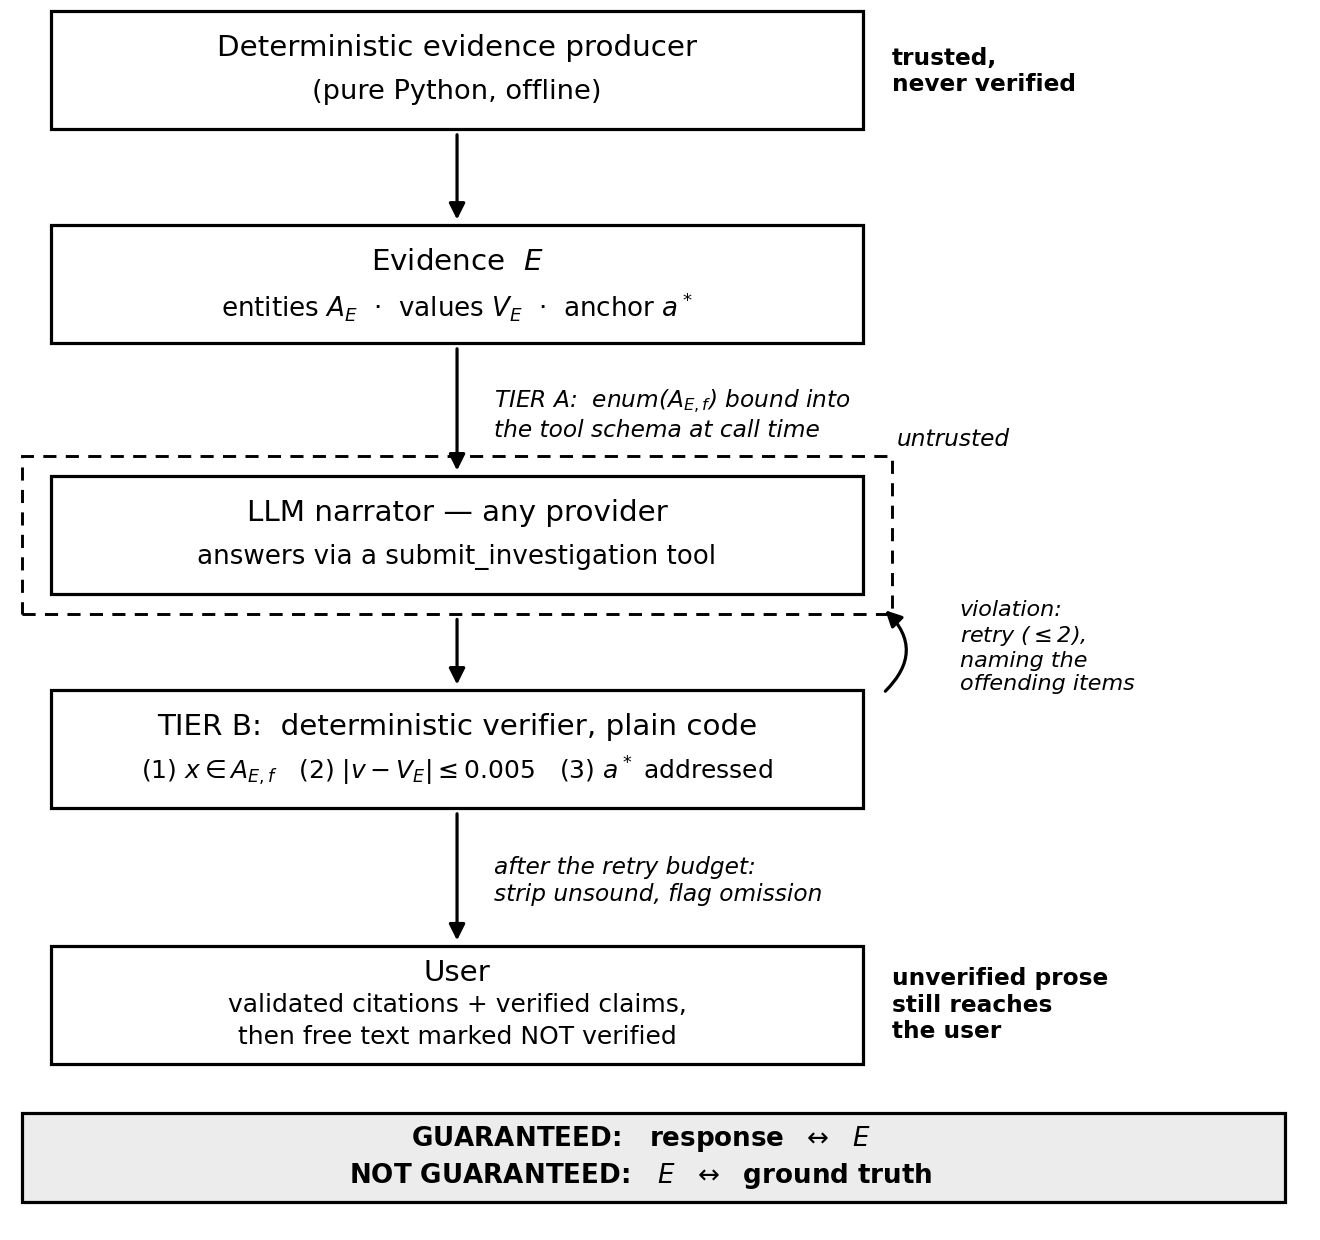
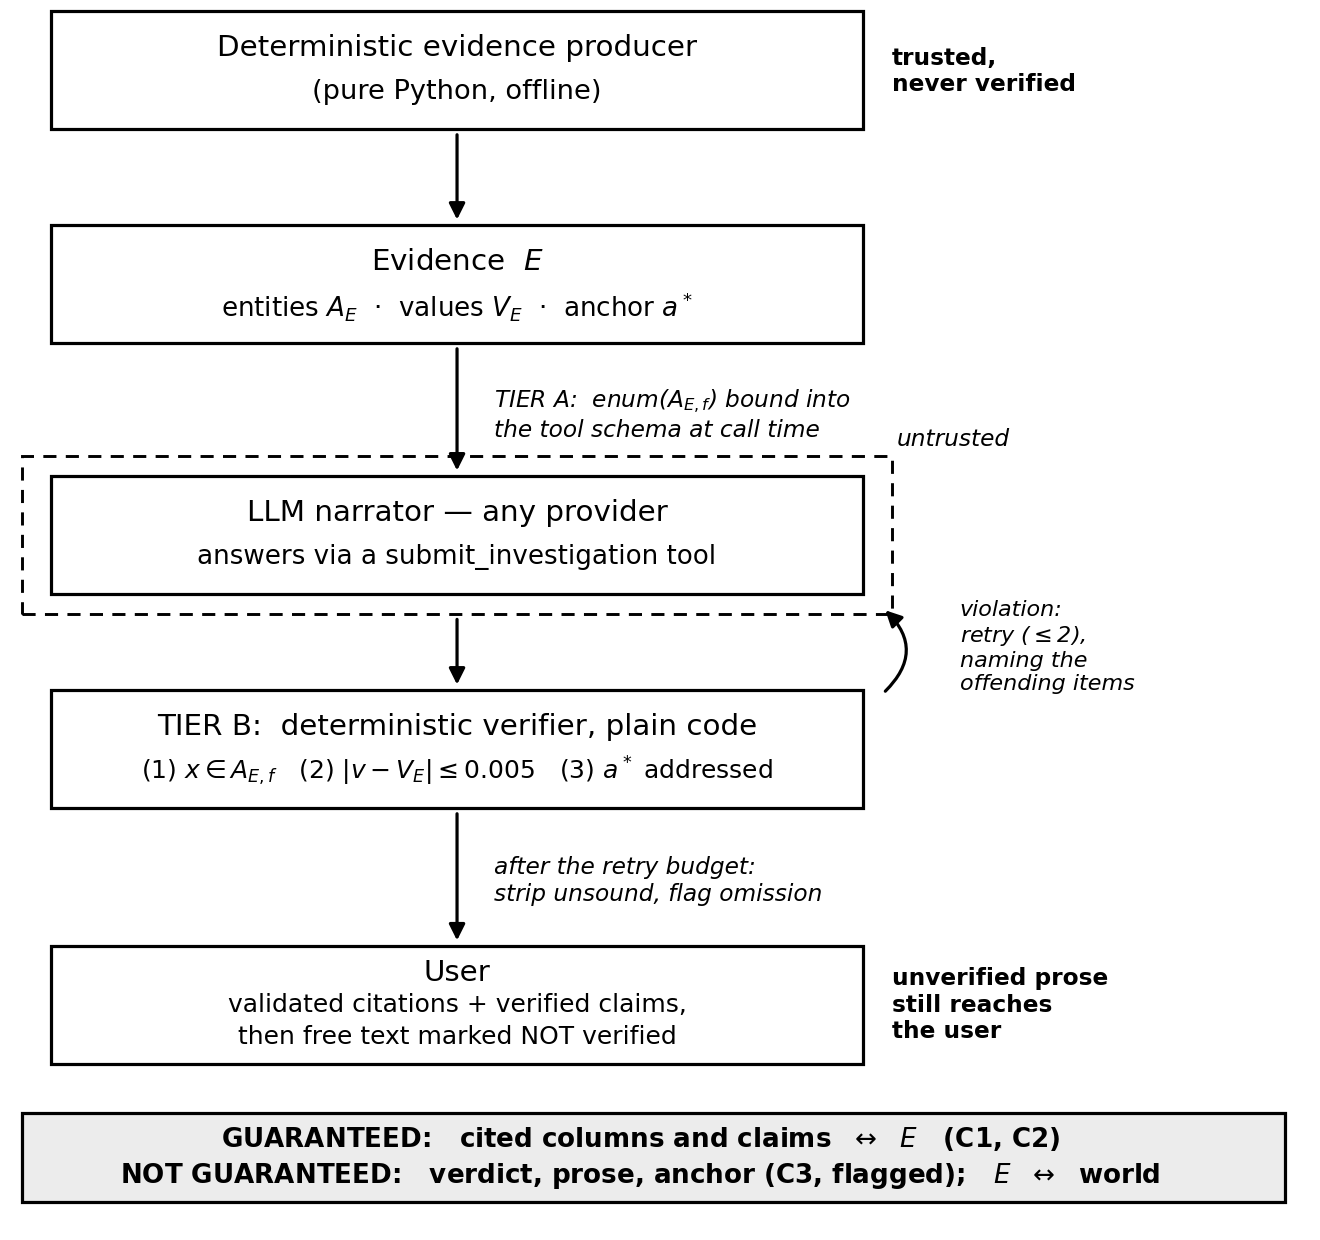
Manuscript: fixes from the V1.6 panel
Independent arms described as independent (the verified arm's four retries
were its own responses); Fig. 1 guarantees only the cited columns and claims
(C1, C2); C3 reported as a diagnostic; check time separated from retry time;
the only pooled figure is the one A3 registered, with a reconciliation of
the 1,829 flagged responses; H8's decision rule explained; enum and wording
claims scoped; arms ran in blocks, not interleaved; stale-enum control called
extreme. Still 15 pages, abstract 247 words.

Changed region(s): [[0.0932, 0.8887, 0.8697, 0.9806]]

diff --git a/paper/tse_latex/main.tex b/paper/tse_latex/main.tex
@@ -73,13 +73,13 @@ responses \emph{misfile} a real evidence name into a field that excludes it;
 description takes the rate from 49\,\% to 0.5\,\%, and temperature 0 to
 2\,\%. The shipped prompt gives 0\,\% with or without its claim that
 violations are rejected; its first three rules alone leave 7\,\%. An enum
-fixed at authoring time turns misfiling into invention (72.5\,\%) on data it
-predates; one built at call time reads zero. Added to a well-specified
+written for other data turns misfiling into invention; one built at call time
+does not. Added to a well-specified
 configuration, the verifier changed no rate on leakage and caught 4 of 200
 responses on a profiling task, an exploratory difference whose registered
 confirmatory test the budget cut short. It repaired every violation with one
-retry, in microseconds. Verdict and prose are outside it; a scan of
-the prose found no increase.
+retry; the check itself takes microseconds. Verdict and prose are outside it;
+a prose scan found no clear increase.
 \end{abstract}
 
 \begin{IEEEkeywords}
@@ -403,7 +403,9 @@ before the study, support it without proving it, and the search found two
 defects in an earlier version (Section~\ref{sec:instruments}). Because the
 guarantee does not come from sampling, we report an enforced arm's clean result
 as what the verifier did and attach no interval to it. (C3) cannot be enforced
-in the same way; when $E$ has no candidate there is no anchor, and (C3) holds
+in the same way, so it is reported and not guaranteed: a committed response
+that still omits the anchor after the retries reaches the user with the
+omission flagged. When $E$ has no candidate there is no anchor, and (C3) holds
 vacuously.
 
 \begin{observation}[Repair asymmetry]\label{prop:asym}
@@ -426,11 +428,9 @@ Tier~B therefore strips unsound content and only \emph{flags} a persistent
 omission, which in edit-automaton terms is suppression without
 insertion~\cite{ligatti2005edit}. In the security setting insertion is simply
 a stronger primitive; over a narrator, an inserted reference would fabricate
-attribution. The check runs in linear time. Hashing each $A_{E,f}$ and $V_E$
-once turns every entity, claim and anchor test into one lookup, so a response
-costs $O(|r|)$ after $O(\sum_f|A_{E,f}|+|V_E|)$ preprocessing. This matters for
-feasibility only. The step that needed care was keying $V_E$ on the pair,
-which our own scorer once failed to do (Section~\ref{sec:instruments}).
+attribution. With each $A_{E,f}$ and $V_E$ hashed once, a response costs
+$O(|r|)$. The step that needed care was keying $V_E$ on the pair, which our
+own scorer once failed to do (Section~\ref{sec:instruments}).
 
 %%%%%%%%%%%%%%%%%%%%%%%%%%%%%%%%%%%%%%%%%%%%%%%%%%%%%%%%%%%%%%%%%%%%%%%
 \section{The Artifact}\label{sec:contract}
@@ -544,9 +544,8 @@ and marked unverified; Section~\ref{sec:threats} measures what they carry.
 The second is the correctness of $E$. If the leakage detector mis-ranks a
 candidate, the contract faithfully narrates a wrong finding. The producer is
 trusted and not verified, and (C3) names one anchor rather than every finding.
-Where two candidates are nearly tied, a response that addresses the second
-would be flagged; a variant of (C3) that accepts any of several candidates is
-untested, since no instance we ran has a tie at the top.
+A response that addresses the second of two nearly tied candidates would be
+flagged; no instance we ran has such a tie.
 
 The third is the other narration surfaces. The product prints two other
 narrations of the same evidence that no contract governs: an optional LLM
@@ -722,9 +721,8 @@ fixed in the analysis plan; the local \texttt{qwen2.5:7b} arms have $N=20$ and
 the RQ4 variants $N=100$. One arm's responses on one task instance and date
 form a \emph{cell}, and the arms run together on one date a \emph{battery}.
 A count of 0 in 200 bounds
-the rate below 1.9\,\% (Wilson, 95\,\%). Against an arm at zero, a true rate of
-4\,\% is detected with power 0.8; near the 42\,\% floor only differences of
-about 13 points are (Section~\ref{sec:threats}). The
+the rate below 1.9\,\% (Wilson, 95\,\%); power is in
+Section~\ref{sec:threats}. The
 provider serves a rolling model name, so the same arm can read differently on
 different days. Every rate therefore carries its run date, and arms are
 compared within a date.
@@ -765,7 +763,7 @@ $0.05$ (\texttt{scripts/tau\_sensitivity.py}). The narrators copy numbers,
 so the choice matters little here. An absolute $\tau$ suits bounded quantities
 such as correlations; unbounded ones call for a relative tolerance and counts
 for an exact match, and each specification can set its own. Both of ours use
-0.005, which on an integer count already demands an exact match.
+0.005, which on an integer count rejects every other integer.
 
 \texttt{deepseek-chat} is the model on which the failure occurs;
 \texttt{gpt-5.4-mini} and a local \texttt{qwen2.5:7b} are the null providers
@@ -799,7 +797,7 @@ X3b & Contract against the author-time list (exploratory) & Equal on the referen
 X4 & Our checks inside the Guardrails loop tie the contract & 0.0\,pp [$-1.9$, 1.9], $p=1$ \\
 X5 & Contract against NeMo Guardrails & Not run: the adapter was not built \\
 H7 & Stock Guardrails loop within 2\,pp of the floor & Not met: 35.0 against 42.0\,\%, but not the 10\,pp drop that rejects it \\
-H8 & Typed schema without column list within 2\,pp of the floor & Neither held nor rejected: 4.0\,\% is far below 42.0\,\%, rejection needs 0/200 \\
+H8 & Typed schema without column list within 2\,pp of the floor & Neither held nor rejected: the registered rule rejects only at 0/200, so it cannot register the large drop observed (4.0 against 42.0\,\%) \\
 H9 & Strict call-time enum ties the contract on entity & Held (2026-09-24); the run without the flag is \texttt{A-TIER-A-ONLY} \\
 H10 & Strict enum fails on an activated non-entity channel & Void with X2 \\
 H11 & Our checks inside Guardrails match the contract on every channel & Held \\
@@ -812,7 +810,7 @@ H16 & The post-strip anchor-coverage re-check fires on live data & Not exercised
 Falsifier & Property-based falsifier with automated mutants & Built after the runs ($10^6$ cases); 36 hand-written mutation tests instead of generated mutants \\
 Strict prompt & Replicate of the arms under the shipped prompt & Run for \texttt{A-L2} and \texttt{A-L3-SHIPPED} only, plus the unregistered \texttt{A-L2-RULES} and \texttt{A-L2-NOCLAIMS} \\
 Panel & \texttt{deepseek-v4-flash}, \texttt{gpt-5.4-mini}, \texttt{Qwen2.5-3B} (vLLM) & \texttt{deepseek-chat}, \texttt{gpt-5.4-mini}, \texttt{qwen2.5:7b} (Ollama), without an amendment \\
-Pooling & No pooled rates for floor, baseline or sweep arms & None reported \\
+Pooling & No pooled rates for floor, baseline or sweep arms & None, except the share of invented names over the twelve A3 instances, which A3 registered pooled \\
 Pilot & Report the June floor rates & 15.0 and 11.5\,\% (rolling alias, records not kept; fault 5) \\
 \midrule
 A3 R2a & On 12 instances frozen in July, misfiling dominates and invented names stay under 5\,\% of flagged responses & Held: 12 of 817 (1.5\,\%), on 1{,}888 valid floor responses \\
@@ -853,16 +851,19 @@ responses, every one \texttt{r2}, and the shipped prompt and the contract read
 
 \paragraph{Twelve further instances}
 On the twelve instances frozen in July the floor arm misfiles in 26.5 to
-55.5\,\% of responses per instance, 817 of 1{,}888 pooled (43.3\,\% [41.1,
-45.5]); 512 calls lost when the provider balance ran out are excluded
-(amendment A4). Of the 817, 795 misfile \texttt{r2} or
+55.5\,\% of responses per instance, 817 of 1{,}888 responses in all; 512
+calls lost when the provider balance ran out (23 to 64 per instance, all
+errors 402 or 429) are excluded (amendment A4). Of the 817, 795 misfile \texttt{r2} or
 \texttt{perfect\_match\_rate}. Forty-five cite the frame's own target column,
 which $E$ does not list, 18 of them with no other violation. Twelve cite a
 name in neither $E$ nor the frame: ten write \texttt{target} for the target
 column, and two respell a real one (\texttt{charged\_est},
 \texttt{total\_charges}). The registered prediction that such names stay
-under 5\,\% of flagged responses holds (1.5\,\%). The composition found on
-four instances thus holds on twelve that played no part in the design.
+under 5\,\% of flagged responses holds (1.5\,\%). The 817 are thus 795 that
+misfile, 18 that cite only the target column and 4 that cite only an invented
+name; with the 1{,}012 of the first four instances, all of which misfile,
+1{,}807 of 1{,}829 flagged responses misfile. The composition found on four
+instances holds on twelve that played no part in the design.
 
 \paragraph{Cause: an undescribed field}
 The bare instruction says ``list every column from the evidence you cite'',
@@ -1023,8 +1024,10 @@ of RQ5 gave the one difference we observed. Under natural column names the
 unverified strong arm delivered a violation in 4 of 200 responses
 (2.0\,\% [0.8, 5.0]): one cites \texttt{reference\_count} beside the real
 \texttt{referral\_count}, two attach real numbers to invented
-\texttt{*\_placeholder} columns, and one to a statistic $E$ lacks. The verified arm delivered
-none and sent those four back. Against 0/200 this is not significant (Fisher
+\texttt{*\_placeholder} columns, and one to a statistic $E$ lacks. The verified arm, an independent
+sample, delivered none; it sent back four of its own responses, three citing
+columns the frame lacks and one without an admissible verdict, and one retry
+repaired each. Against 0/200 this is not significant (Fisher
 $p=0.12$) and was found in an exploratory run. The confirmatory test we then
 registered, 600 responses per arm (amendment A3), stopped when the provider
 balance ran out after 93 and 91, none with a violation, and we run no test on
@@ -1200,7 +1203,7 @@ enum alone, with no verification, left no violation in 200
 most often without enforcement produced no violation on any first attempt.
 
 \paragraph{Answer to RQ4}
-Wording alone moves the rate from 9 to 72\,\%, and how much of the answer an
+The wording, and how much it specifies, moves the rate from 9 to 72\,\%, and how much of the answer an
 instruction specifies predicts the unverifiable channel. The effect of a
 wording is known only for the configuration it was measured in.
 
@@ -1304,7 +1307,8 @@ survived distinct names reflects our binding choices as much as model error.
 
 \paragraph{Answer to RQ5}
 The contract binds to a second evidence shape without task-specific code.
-There Tier~B catches wrong numbers that no enum can express, and the wrong
+There Tier~B catches wrong numbers that the per-field enums we use cannot
+express, and the wrong
 numbers themselves came from our column naming.
 
 %%%%%%%%%%%%%%%%%%%%%%%%%%%%%%%%%%%%%%%%%%%%%%%%%%%%%%%%%%%%%%%%%%%%%%%
@@ -1392,16 +1396,13 @@ measuring each combination. A fix's effect is known only where it was
 measured; the verifier's follows from code that runs in our process.
 
 \paragraph{Binding at call time}
-The crowded instance shows what binding at call time buys. An enum declared
-while authoring against one dataset turned a 61\,\% misfiling rate into a
-72.5\,\% invention rate on the next dataset and blocked the anchor in two
-responses out of three. An enum built from $E$ at call time read zero on the
-same instance. A stale
-schema actively introduces errors, and nothing in a static schema tells its
-author that the data has changed.
+An enum written for the reference task turned 61\,\% misfiling into
+72.5\,\% invention on the crowded instance, none of whose columns it lists;
+the call-time enum read zero. That control is extreme, and partly stale
+lists, the realistic case, are untested.
 
 \paragraph{Simpler designs}
-Two alternatives are worth naming. If every structured fact were rendered
+If every structured fact were rendered
 deterministically and the model wrote only prose, the structured guarantee
 would be trivial and the model would be left with the one channel no check
 reaches. Stripping without retry is cheaper, but it would have deleted content
@@ -1460,7 +1461,8 @@ shortened names; mlcompass does not ship it. The value channel was stressed less
 entity channel: the registered value-pressure instance (H14) did not activate
 it, and (C2) caught real errors only on the profile task.
 
-\paragraph{Internal} We compare arms within one date. The provider serves a
+\paragraph{Internal} We compare arms within one date. Arms ran in
+blocks, not interleaved, so drift within a day is not controlled. The provider serves a
 rolling model name, and the unconstrained rates move between runs:
 \texttt{A-GR-STOCK} read 35.0, 43.5 and 47.5\,\% over nine days
 (heterogeneity $p=0.035$), and \texttt{A-STRESS} repaired 12, 23, 32 and 19
@@ -1480,9 +1482,8 @@ completed. The profile frame is synthetic data under two naming schemes. We
 registered a measurement of the shipped default narrator,
 \texttt{claude-opus-4-7}, and did not run it for lack of budget. We did measure schema
 cost: from 10 to 1{,}000 columns the enum costs 38 bytes per column, against
-344 for the evidence that produced it. We did not measure provider limits on
-enum size, and because the corrective retry inlines the whole list, its cost
-grows with the width of the domain.
+344 for the evidence that produced it. Provider limits on enum size are
+unmeasured, and the retry, which inlines the list, grows with the domain.
 
 \paragraph{Conclusion validity} At $N=200$ a comparison against a zero arm
 reaches $p<0.05$ at six events and detects a true rate of 4\,\% with power 0.8
@@ -1506,7 +1507,7 @@ field's admissible set to the evidence and checking the returned payload in
 host code, which is ordinary validate-and-reask, enforces referential and
 value soundness behind an API that exposes no logits. The check held in every
 configuration in which it ran and repaired every violation with one named
-retry, in microseconds. Added to a well-specified configuration it changed no
+retry; the check itself takes microseconds. Added to a well-specified configuration it changed no
 rate on leakage and caught 4 of 200 responses on profiling, an exploratory
 difference whose registered confirmatory test the budget cut short. We report
 fourteen faults in our own instruments and two in the verifier, with what each
@@ -1526,11 +1527,9 @@ live response with the verbatim model reply, the scripts that recompute every
 table from those records, the registered property-based falsifier, the
 superseded measurements beside their corrections, an inventory of every run
 file from which each count in this paper is recomputed, and the downstream
-benchmark
-this paper does not report. Code is MIT; data is CC-BY 4.0. Most of the
-harness and analysis code was drafted with an AI assistant and then
-inspected and tested by the authors (see Acknowledgments); every table can be
-regenerated from the run records with the scripts in the package.
+benchmark. Code is MIT; data is CC-BY 4.0. Most of the harness and analysis
+code was drafted with an AI assistant and then inspected and tested by the
+authors.
 
 
 \balance

diff --git a/paper/make_fig1_contract.py b/paper/make_fig1_contract.py
@@ -8,8 +8,10 @@ is that generator, and it adds the three annotations a reviewer asked for:
     starts below it, not above it;
   * unverified prose still reaches the user, so the guarantee covers the
     channels and not the screen;
-  * the scope band under the flow: response <-> E is guaranteed,
-    E <-> the world is not.
+  * the scope band under the flow: the cited columns and claims are
+    guaranteed against E (C1, C2); the verdict, the prose, the anchor (C3,
+    flagged only) and E against the world are not. An earlier label said
+    "response <-> E", which a reviewer rightly found too broad.
 
 Those three are the fastest way for a reader to see where the claim stops,
 and every one of them was already in the prose.
@@ -141,10 +143,10 @@ ax.add_patch(
               linewidth=1.15, edgecolor="black", facecolor="#ececec", zorder=3)
 )
 ax.text(CX + 0.14, BY - 0.021,
-        "GUARANTEED:   response  $\\leftrightarrow$  $E$",
+        "GUARANTEED:   cited columns and claims  $\\leftrightarrow$  $E$   (C1, C2)",
         ha="center", va="center", fontsize=9.4, fontweight="bold", zorder=4)
 ax.text(CX + 0.14, BY - 0.051,
-        "NOT GUARANTEED:   $E$  $\\leftrightarrow$  ground truth",
+        "NOT GUARANTEED:   verdict, prose, anchor (C3, flagged);   $E$  $\\leftrightarrow$  world",
         ha="center", va="center", fontsize=9.4, fontweight="bold", zorder=4)
 
 fig.subplots_adjust(left=0.004, right=0.996, top=0.996, bottom=0.004)
